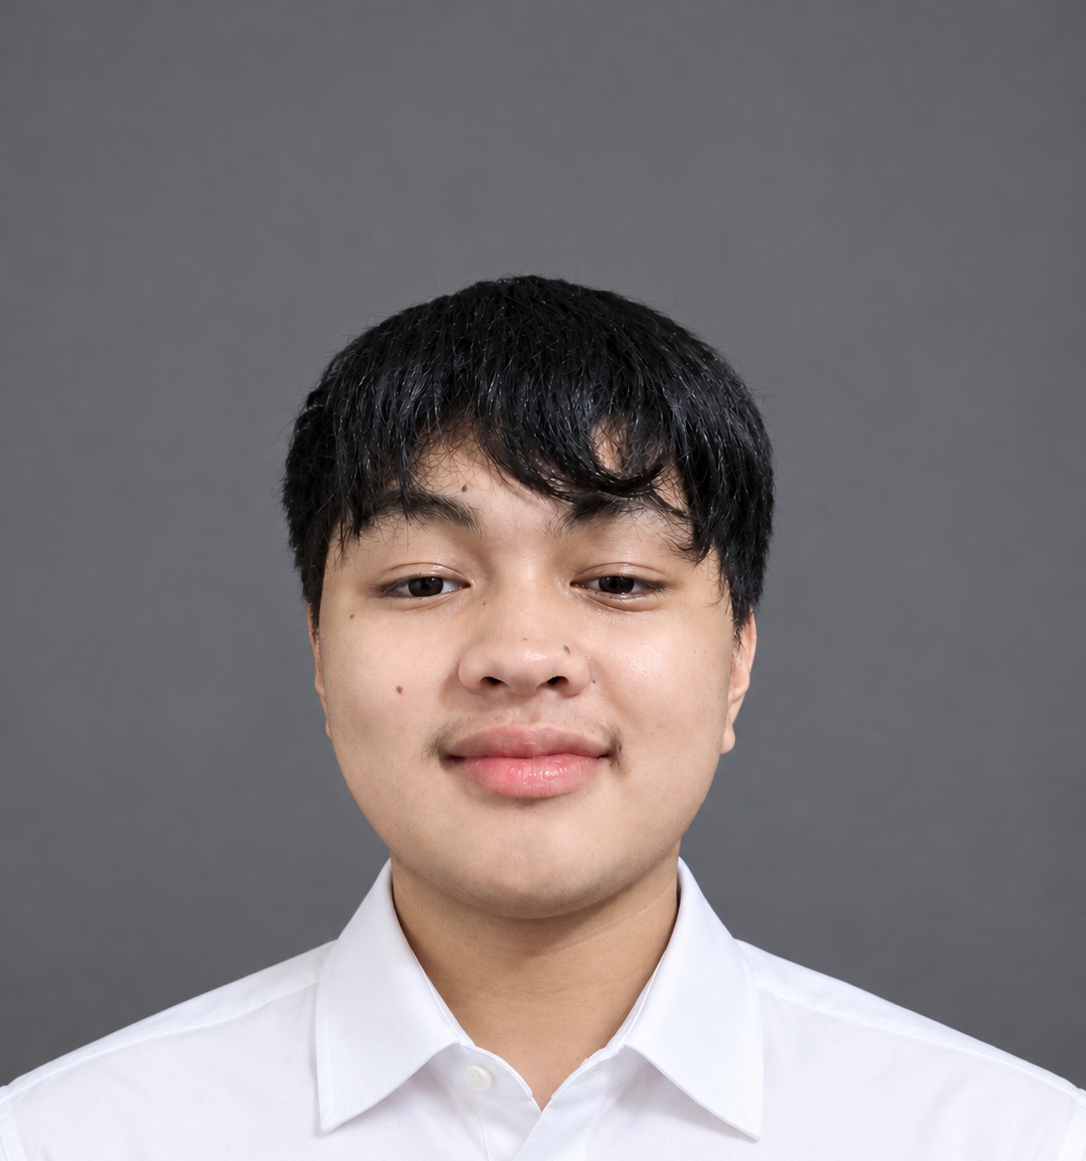
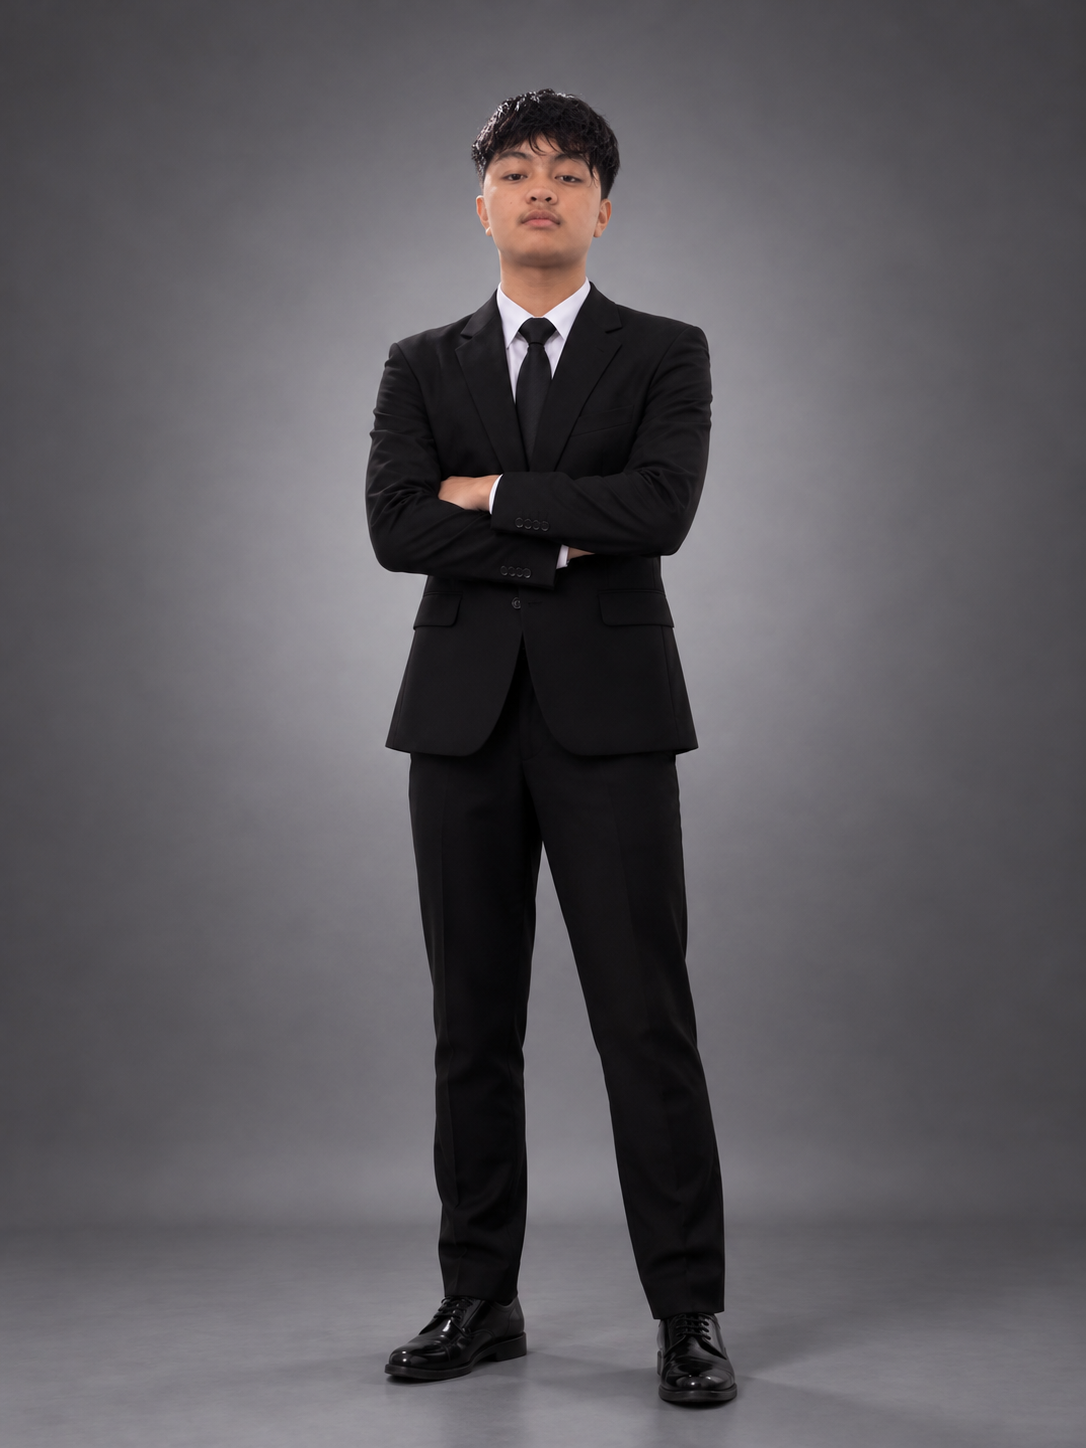
Add files via upload

diff --git a/index.html b/index.html
@@ -65,7 +65,7 @@
       <div class="photo-wrap reveal" id="photoWrap" style="--d:.05s" tabindex="0" aria-label="Hover or tap my photo to see the technologies I study">
         <div class="photo-glow"></div>
         <div class="photo-frame" id="photoFrame">
-          <img class="photo" src="assets/images/photo.jpg" alt="Photo of Axzhel Jarred A. Santos" style="object-position: center 25%;">
+          <img class="photo" src="assets/images/photo.jpg" alt="Photo of Axzhel Jarred A. Santos" style="object-position: center top;">
           <span class="photo-shine"></span>
         </div>
 
@@ -161,7 +161,7 @@
           <!-- Quick facts -->
           <aside class="card facts reveal" style="--d:.25s" aria-label="Quick facts">
             <div class="facts__id">
-              <img src="assets/images/photo.jpg" alt="" class="facts__avatar" style="object-position:center 22%">
+              <img src="assets/images/avatar.jpg" alt="" class="facts__avatar">
               <div>
                 <strong>Axzhel Jarred A. Santos</strong>
                 <span>BSIT &bull; 1st Year</span>
@@ -273,28 +273,28 @@
           <figure class="fam__card reveal" style="--d:0.2s">
             <div class="fam__frame">
               <div class="fam__ph"><svg viewBox="0 0 24 24" fill="none" stroke="currentColor" stroke-width="1.6" stroke-linecap="round" stroke-linejoin="round"><path d="M4 8h3l1.500-2h7L17 8h3a1 1 0 0 1 1 1v9a1 1 0 0 1-1 1H4a1 1 0 0 1-1-1V9a1 1 0 0 1 1-1z"/><circle cx="12" cy="13" r="3.500"/></svg><span>Add photo</span></div>
-              <img src="assets/images/family/mother.jpg" alt="My Mother" loading="lazy" onerror="this.remove()">
+              <img src="assets/images/family/mother.jpg" alt="My Mother" style="object-position:center 30%" loading="lazy" onerror="this.remove()">
             </div>
             <figcaption>MY MOTHER</figcaption>
           </figure>
           <figure class="fam__card reveal" style="--d:0.3s">
             <div class="fam__frame">
               <div class="fam__ph"><svg viewBox="0 0 24 24" fill="none" stroke="currentColor" stroke-width="1.6" stroke-linecap="round" stroke-linejoin="round"><path d="M4 8h3l1.500-2h7L17 8h3a1 1 0 0 1 1 1v9a1 1 0 0 1-1 1H4a1 1 0 0 1-1-1V9a1 1 0 0 1 1-1z"/><circle cx="12" cy="13" r="3.500"/></svg><span>Add photo</span></div>
-              <img src="assets/images/family/father.jpg" alt="My Father" loading="lazy" onerror="this.remove()">
+              <img src="assets/images/family/father.jpg" alt="My Father" style="object-position:center 28%" loading="lazy" onerror="this.remove()">
             </div>
             <figcaption>MY FATHER</figcaption>
           </figure>
           <figure class="fam__card reveal" style="--d:0.4s">
             <div class="fam__frame">
               <div class="fam__ph"><svg viewBox="0 0 24 24" fill="none" stroke="currentColor" stroke-width="1.6" stroke-linecap="round" stroke-linejoin="round"><path d="M4 8h3l1.500-2h7L17 8h3a1 1 0 0 1 1 1v9a1 1 0 0 1-1 1H4a1 1 0 0 1-1-1V9a1 1 0 0 1 1-1z"/><circle cx="12" cy="13" r="3.500"/></svg><span>Add photo</span></div>
-              <img src="assets/images/family/sibling.jpg" alt="My Sibling" loading="lazy" onerror="this.remove()">
+              <img src="assets/images/family/sibling.jpg" alt="My Ausome Sibling" style="object-position:center 25%" loading="lazy" onerror="this.remove()">
             </div>
-            <figcaption>MY SIBLING</figcaption>
+            <figcaption>MY AUSOME SIBLING</figcaption>
           </figure>
           <figure class="fam__card reveal" style="--d:0.5s">
             <div class="fam__frame">
               <div class="fam__ph"><svg viewBox="0 0 24 24" fill="none" stroke="currentColor" stroke-width="1.6" stroke-linecap="round" stroke-linejoin="round"><path d="M4 8h3l1.500-2h7L17 8h3a1 1 0 0 1 1 1v9a1 1 0 0 1-1 1H4a1 1 0 0 1-1-1V9a1 1 0 0 1 1-1z"/><circle cx="12" cy="13" r="3.500"/></svg><span>Add photo</span></div>
-              <img src="assets/images/family/bestfriends.jpg" alt="My Bestfriends" loading="lazy" onerror="this.remove()">
+              <img src="assets/images/family/bestfriends.jpg" alt="My Bestfriends" style="object-position:center 68%" loading="lazy" onerror="this.remove()">
             </div>
             <figcaption>MY BESTFRIENDS</figcaption>
           </figure>

diff --git a/style.css b/style.css
@@ -166,7 +166,7 @@ main > section.hero.active { display: grid; align-content: center; }
 
 /* ---------- Photo ---------- */
 /* Photo grows with the screen: limited by column width and by available height (4:5 frame) */
-.photo-wrap { position: relative; width: 100%; max-width: min(640px, calc((100vh - 270px) * .8)); min-width: 260px; margin: 0 auto; perspective: 1000px; outline: none; }
+.photo-wrap { position: relative; width: 100%; max-width: min(640px, calc((100vh - 270px) * .75)); min-width: 260px; margin: 0 auto; perspective: 1000px; outline: none; }
 .photo-glow {
   position: absolute; inset: -14px; border-radius: 28px; z-index: 0;
   background: conic-gradient(from 0deg, var(--accent), var(--accent-2), var(--accent-3), var(--accent));
@@ -176,7 +176,7 @@ main > section.hero.active { display: grid; align-content: center; }
 @keyframes spin { to { transform: rotate(360deg); } }
 
 .photo-frame {
-  position: relative; z-index: 2; aspect-ratio: 4 / 5; border-radius: 22px; overflow: hidden;
+  position: relative; z-index: 2; aspect-ratio: 3 / 4; border-radius: 22px; overflow: hidden;
   padding: 3px; background: linear-gradient(140deg, var(--accent), var(--accent-2) 50%, var(--accent-3));
   transform: rotateX(var(--rx, 0deg)) rotateY(var(--ry, 0deg));
   transition: transform .25s ease-out;
